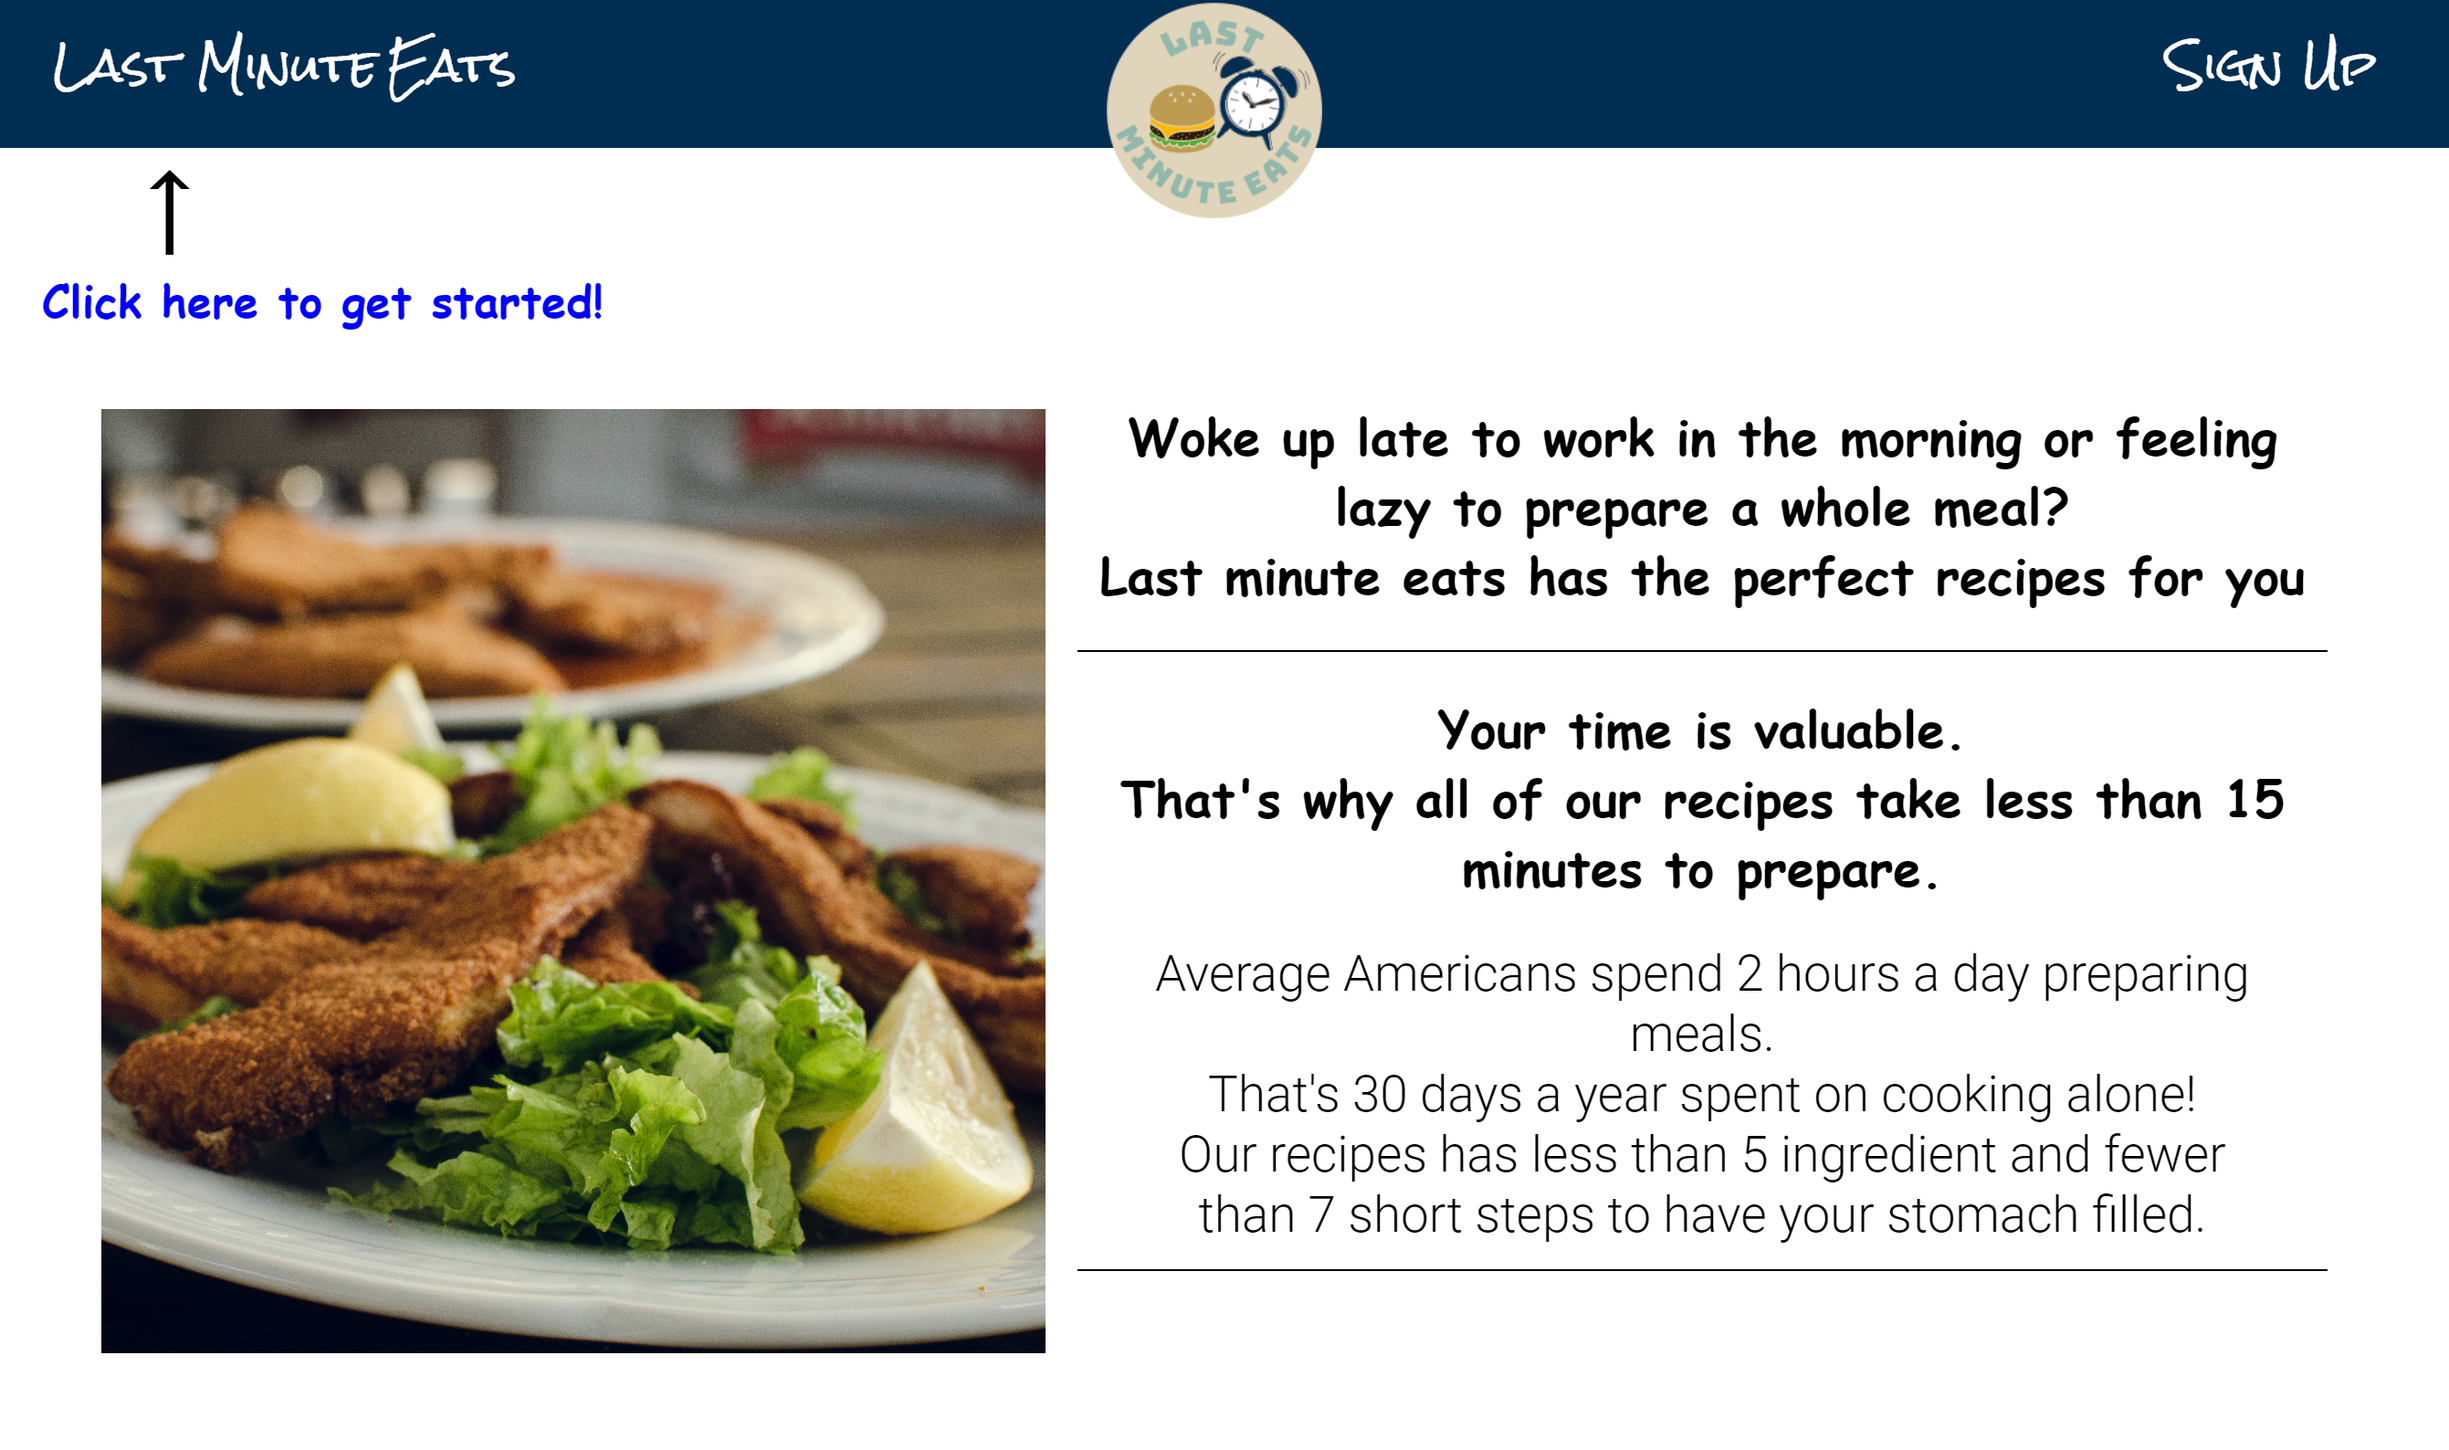
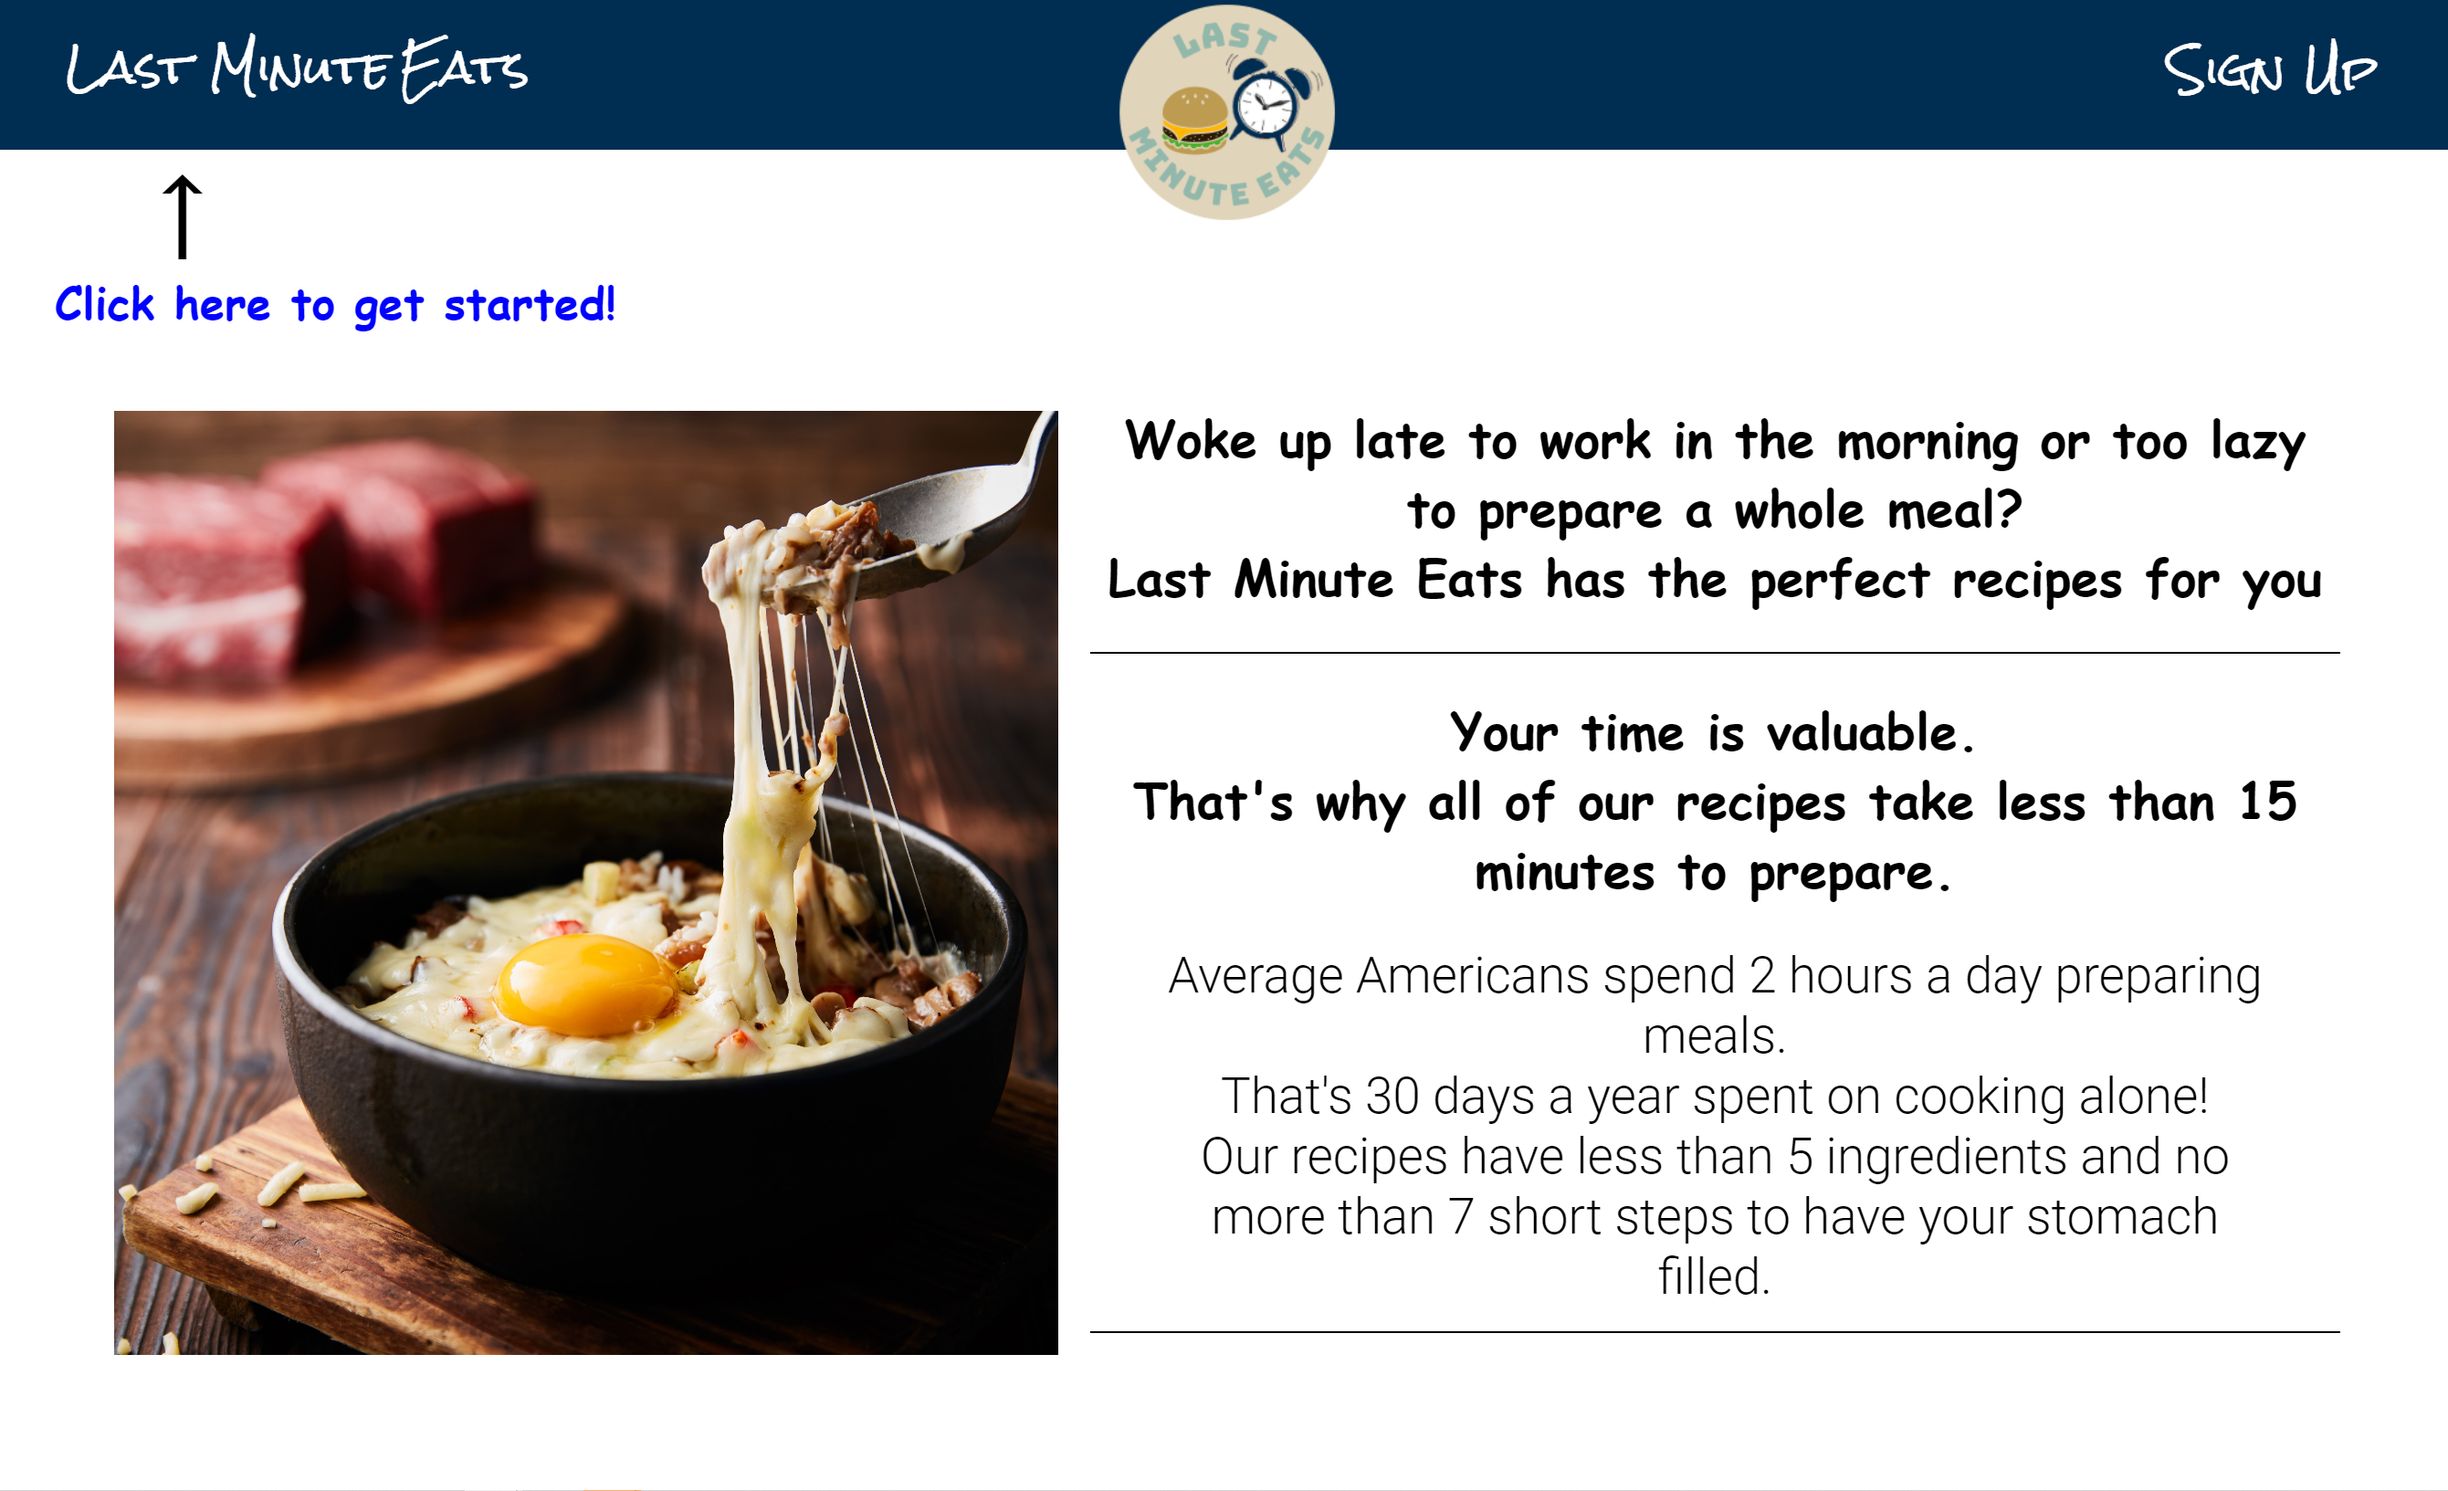
new image

diff --git a/src/components/EditRecipe/EditRecipeGate/EditRecipeGate.css b/src/components/EditRecipe/EditRecipeGate/EditRecipeGate.css
@@ -8,7 +8,7 @@
     margin-right: auto;
     height:100%;
     padding-top: 20%;
-    top: -900px;
+    top: -2000px;
     left: 0;
     z-index:1000;
     background-color: rgba(0, 45, 82, 0.616);
@@ -27,7 +27,7 @@
 }
 
 @keyframes slide-down{
-    0% { top: -900px}
+    0% { top: -2000px}
     90%{ top: 0}
     92%{ top: 30px }
     94%{ top: 0px }
@@ -39,7 +39,7 @@
 
 @keyframes slide-up{
     0% { top: 0}
-    100%{ top: -900px; display: none; }
+    100%{ top: -2000px; display: none; }
 }
 
 .edit-recipe-gate-label{
@@ -72,9 +72,7 @@
     margin-top: 5%;
     width: 40%;
     max-width: 350px;
-    font-family: 'Baloo Tamma 2';
 }
-
 
 a.edit-recipe-gate-back{
     cursor: pointer;
@@ -114,7 +112,7 @@ a.edit-recipe-gate-back{
 
 @media screen and (min-width: 550px){
     .edit-recipe-gate-form{
-       padding-top: 10%;
+       padding-top: 3%;
     }
 }
 
@@ -122,27 +120,25 @@ a.edit-recipe-gate-back{
 @media screen and (min-width: 1000px){
 
     .edit-recipe-gate-form{
-        padding-top: 7%;
+        padding-top: 3%;
      }
 
     .edit-recipe-gate-label{
-        font-size: 5vw;
-        margin-top: 6vw;
+        font-size: 4vw;
         margin-bottom: 5%;
     }
 
     .edit-recipe-gate-input{
-        font-size: 5vw;
+        font-size: 4vw;
+        width: 40%;
     }
 
     .edit-recipe-gate-submit{
-        font-size: 70px;
-        font-family: 'Baloo Tamma 2';
-
+        font-size: 50px;
     }
 
     a.edit-recipe-gate-back{
-        font-size: 70px;
+        font-size: 50px;
         padding: 0.5%;
     }
 

diff --git a/src/components/LandingPage/LandingPage.js b/src/components/LandingPage/LandingPage.js
@@ -68,7 +68,7 @@ export default class LandingPage extends Component {
                         <div className="landing-page-headings">
                             <section className="landing-page-heading first">
                                 <h1 className="landing-page-heading-text">
-                                    Woke up late to work in the morning or just feel to lazy to prepare a whole meal?
+                                 Woke up late to work in the morning or too lazy to prepare a whole meal?
                                     <span className="landing-page-break">
                                     Last Minute Eats has the perfect recipes for you
                                     </span>
@@ -88,7 +88,7 @@ export default class LandingPage extends Component {
                                         That's 30 days a year spent on cooking alone!
                                     </span>
                                     <span className="landing-page-break">
-                                        Our recipes has less than 5 ingredient and fewer than 7 short steps to have your stomach filled.
+                                         Our recipes have less than 5 ingredients and no more than 7 short steps to have your stomach filled.
                                     </span>
                                 </div>
                             </section>

diff --git a/src/components/ViewRecipe/DeleteRecipe/DeleteRecipe.css b/src/components/ViewRecipe/DeleteRecipe/DeleteRecipe.css
@@ -8,7 +8,7 @@
     margin-right: auto;
     height:100%;
     padding-top: 20%;
-    top: -900px;
+    top: -2000px;
     left: 0;
     z-index:1000;
     background-color: rgba(0, 45, 82, 0.616);
@@ -27,7 +27,7 @@
 }
 
 @keyframes slide-down{
-    0% { top: -900px}
+    0% { top: -2000px}
     90%{ top: 0}
     92%{ top: 30px }
     94%{ top: 0px }
@@ -39,7 +39,7 @@
 
 @keyframes slide-up{
     0% { top: 0}
-    100%{ top: -900px; display: none; }
+    100%{ top: -2000px; display: none; }
 }
 
 .delete-recipe-label{
@@ -112,7 +112,7 @@
 
 @media screen and (min-width: 550px){
     .delete-recipe-form{
-       padding-top: 10%;
+       padding-top: 3%;
     }
 }
 
@@ -120,25 +120,25 @@
 @media screen and (min-width: 1000px){
 
     .delete-recipe-form{
-        padding-top: 7%;
+        padding-top: 3%;
      }
 
     .delete-recipe-label{
-        font-size: 5vw;
-        margin-top: 6vw;
+        font-size: 4vw;
         margin-bottom: 5%;
     }
 
     .delete-recipe-input{
-        font-size: 5vw;
+        font-size: 4vw;
+        width: 40%;
     }
 
     .delete-recipe-submit{
-        font-size: 70px;
+        font-size: 50px;
     }
 
     .delete-recipe-back{
-        font-size: 70px;
+        font-size: 50px;
         padding: 0.5%;
     }
 

diff --git a/src/components/Nav/SignUp/SignUp.css b/src/components/Nav/SignUp/SignUp.css
@@ -8,7 +8,7 @@
     margin-right: auto;
     height:100%;
     padding-top: 20%;
-    top: -900px;
+    top: -2000px;
     left: 0;
     z-index:1000;
     background-color: rgba(0, 45, 82, 0.616);
@@ -27,7 +27,7 @@
 }
 
 @keyframes slide-down{
-    0% { top: -900px}
+    0% { top: -2000px}
     90%{ top: 0}
     92%{ top: 30px }
     94%{ top: 0px }
@@ -39,7 +39,7 @@
 
 @keyframes slide-up{
     0% { top: 0}
-    100%{ top: -900px; display: none; }
+    100%{ top: -2000px; display: none; }
 }
 
 .sign-up-label{
@@ -112,7 +112,7 @@
 
 @media screen and (min-width: 550px){
     .sign-up-form{
-       padding-top: 10%;
+       padding-top: 3%;
     }
 }
 
@@ -120,25 +120,25 @@
 @media screen and (min-width: 1000px){
 
     .sign-up-form{
-        padding-top: 7%;
+        padding-top: 3%;
      }
 
     .sign-up-label{
-        font-size: 5vw;
-        margin-top: 6vw;
+        font-size: 4vw;
         margin-bottom: 5%;
     }
 
     .sign-up-input{
-        font-size: 5vw;
+        font-size: 4vw;
+        width: 40%;
     }
 
     .sign-up-submit{
-        font-size: 70px;
+        font-size: 50px;
     }
 
     .sign-up-back{
-        font-size: 70px;
+        font-size: 50px;
         padding: 0.5%;
     }
 

diff --git a/src/components/App/App.css b/src/components/App/App.css
@@ -1,27 +1,21 @@
 @import url("https://fonts.googleapis.com/css2?family=Roboto:ital,wght@0,300;1,300&display=swap");
 
-.sign-up-form > *, 
-.delete-recipe-form > *, 
 .landing-page > *, 
 .edit-recipe > *, 
 .make-recipe > *,
 .not-found-page,
 .view-all-recipes-recipes > *,
-.view-recipe-recipe > *,
-.edit-recipe-gate > * {
+.view-recipe-recipe > *{
     font-family: 'Baloo Tamma 2';
 }
 
 @media screen and (min-width: 1000px) {
-    .sign-up-form > *, 
-    .delete-recipe-form > *, 
     .landing-page > *, 
     .edit-recipe > *, 
     .make-recipe > *,
     .not-found-page,
     .view-all-recipes-recipes > *,
-    .view-recipe-recipe > *,
-    .edit-recipe-gate > *{
+    .view-recipe-recipe > *{
         font-family: 'Baloo Tamma 2' cursive;
     }
 }

diff --git a/src/components/ViewRecipe/ViewRecipe.css b/src/components/ViewRecipe/ViewRecipe.css
@@ -74,6 +74,7 @@ a.view-recipe-edit, a.view-recipe-back{
     margin-left: auto;
     margin-bottom: 5%;
     text-align: center;
+    cursor: pointer;
 }
 
 .view-recipe-preparation-time-mobile{
@@ -197,7 +198,7 @@ a.view-recipe-edit, a.view-recipe-back{
         margin-top: 0;
     }  
 
-    a.view-recipe-delete{
+    .view-recipe-delete{
         font-size: 2.2vw;
     }
 }

diff --git a/src/components/EditRecipe/EditRecipe.css b/src/components/EditRecipe/EditRecipe.css
@@ -187,6 +187,7 @@ textarea.edit-recipe-variable-input{
     font-size: 5vw;
     border: none;
     border-bottom: 1px solid black;
+    cursor: pointer;
 }
 
 .edit-recipe-error, .edit-recipe-buffer{

diff --git a/src/components/MakeRecipe/MakeRecipe.css b/src/components/MakeRecipe/MakeRecipe.css
@@ -187,6 +187,7 @@ textarea.make-recipe-variable-input{
     font-size: 5vw;
     border: none;
     border-bottom: 1px solid black;
+    cursor: pointer;
 }
 
 .make-recipe-error, .make-recipe-buffer{
